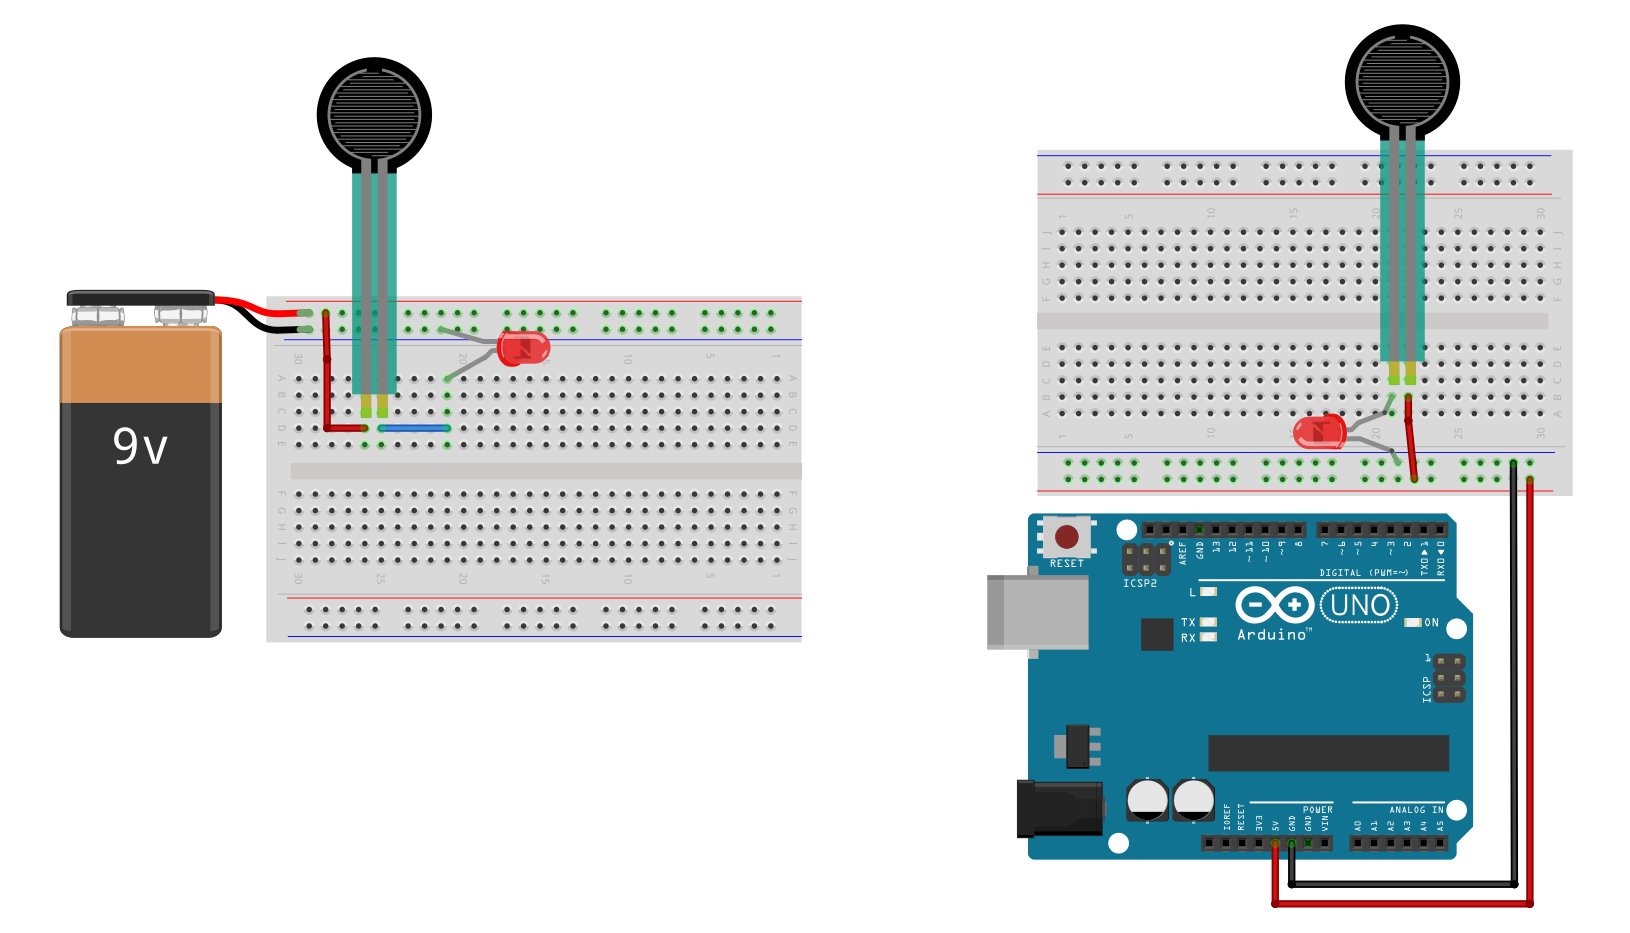
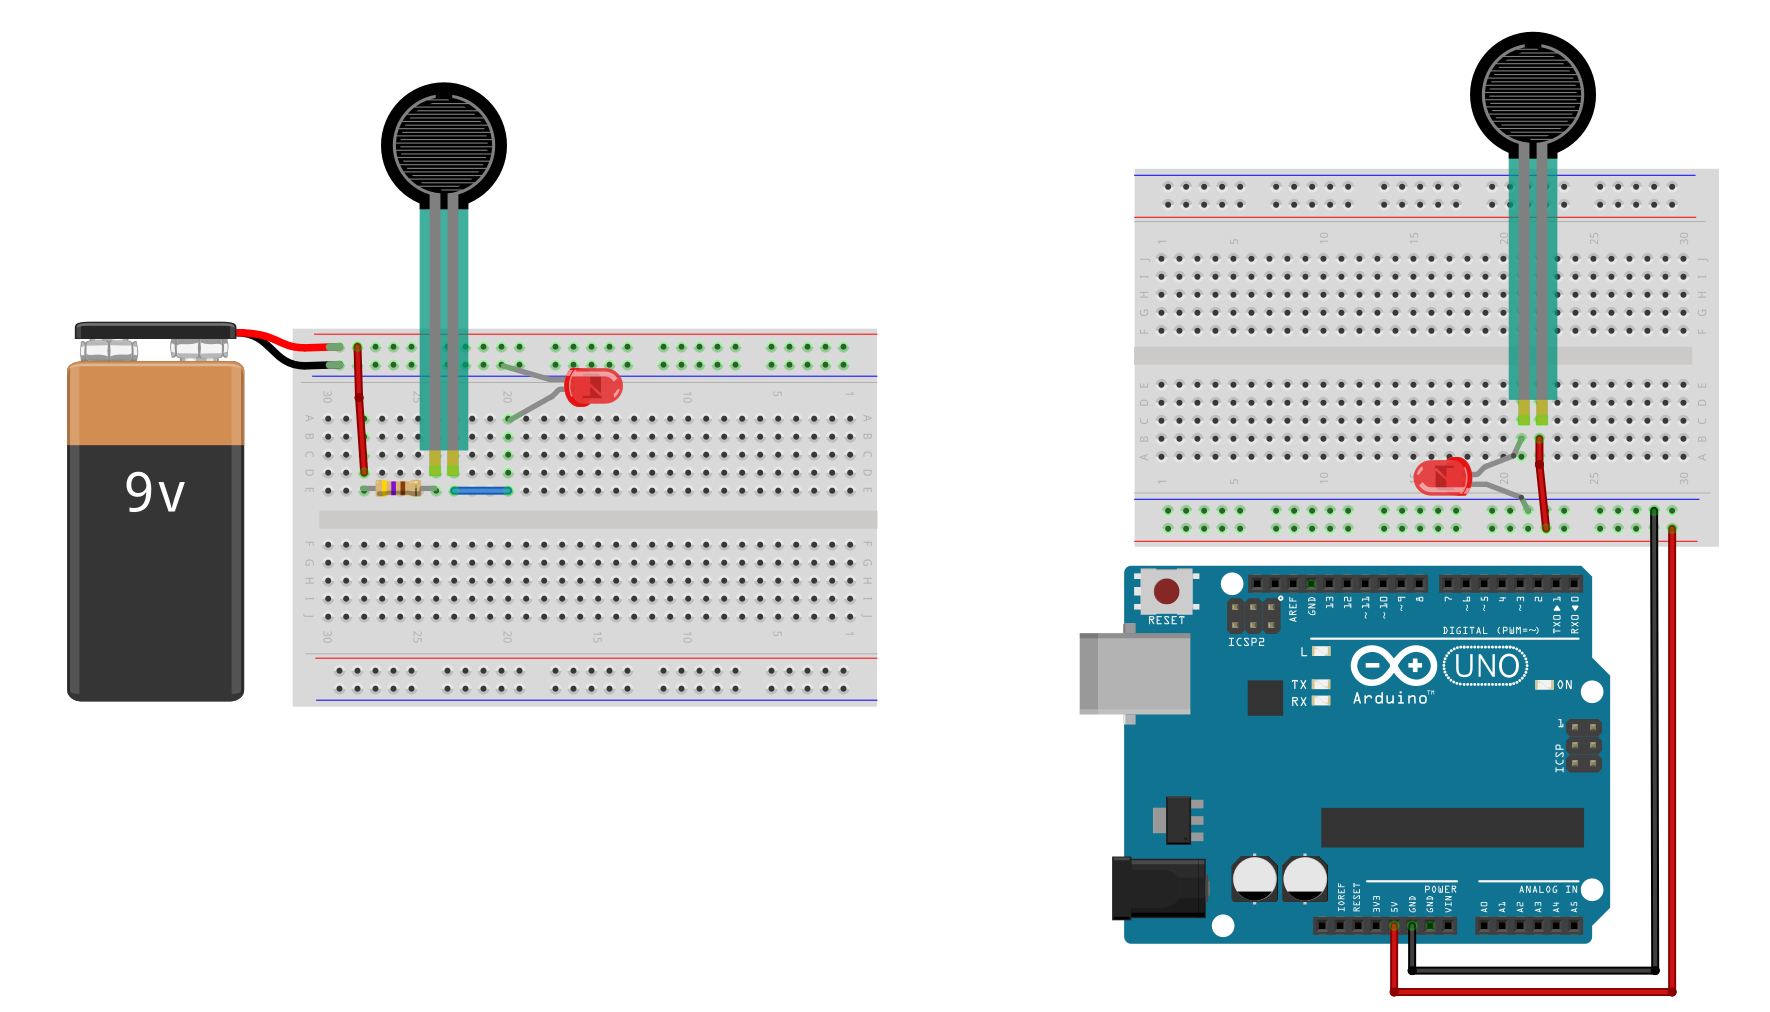
slight fixes

Changed region(s): [[0.5828, 0.0311, 0.9816, 0.9946], [0.0307, 0.0622, 0.5215, 0.7149]]

diff --git a/arduino/force-sensitive-resistors.md b/arduino/force-sensitive-resistors.md
@@ -38,7 +38,7 @@ Force-sensing (or force-sensitive) resistors (FSRs) are two-legged variable resi
 Prices and products from [Sparkfun.com](https://learn.sparkfun.com/tutorials/force-sensitive-resistor-hookup-guide/all)
 {: .fs-1 }
 
-While FSRs respond to force, they are not precision measurement instruments like [load cells](https://learn.sparkfun.com/tutorials/getting-started-with-load-cells) or [strain gauges](https://learn.sparkfun.com/tutorials/getting-started-with-load-cells/strain-gauge-basics), so use those if you want to measure weight, load, or strain.
+While FSRs respond to force, they are not precision measurement instruments like [load cells](https://learn.sparkfun.com/tutorials/getting-started-with-load-cells) or [strain gauges](https://learn.sparkfun.com/tutorials/getting-started-with-load-cells/strain-gauge-basics), so use those if you want to precisely measure weight, load, or strain.
 
 <!-- TODO: How do FSRs work actually work? Include figure from datasheet -->
 
@@ -47,7 +47,7 @@ While FSRs respond to force, they are not precision measurement instruments like
 What can we do with FSRs?
 
 The [FSR 402 datasheet]({{ site.baseurl }}/assets/datasheets/ForceSensitiveResistor_InterlinkFSR402_2010-10-26-DataSheet-FSR402-Layout2.pdf) describes a number of example applications, including:
-- **Detecting human interaction.** Sense whether a touch is accidnetal or intended by a reading force (or other signal processing)
+- **Detecting human interaction.** Sense whether a touch is accidental or intentional by a reading force (or other signal processing)
 - **Using force for UI feedback.** Detect user's touch force to make a more intuitive interface
 - **Enhancing tool safety.** Differentiate a grip from a touch as a safety lock
 - **Finding centroid of force.** Use multiple sensors to determine centroid of force
@@ -85,7 +85,7 @@ Below, we show two possible wiring diagrams: the first (preferred) shows the FSR
 Two wiring options of an FSR using a breadboard. Like typical resistors, FSRs can be inserted into your circuits in either direction.
 {: .fs-1 }
 
-You'll note that unlike with the rheostat circuit, here we're **not** using a backup resistor. This is because both the [FSR 402 datasheet]({{ site.baseurl }}/assets/datasheets/ForceSensitiveResistor_InterlinkFSR402_2010-10-26-DataSheet-FSR402-Layout2.pdf) and our own empirical use demonstrate that even with 1,000g of force, the FSR still has roughly 500Ω-1kΩ of resistance. So, it never drops to dangerously low resistance levels like the potentiometer. You can, of course, use one if you want.
+With the 9V wiring, we include a backup resistor; however, with the 5V wiring (with Arduino), we do not. This is because both the [FSR 402 datasheet]({{ site.baseurl }}/assets/datasheets/ForceSensitiveResistor_InterlinkFSR402_2010-10-26-DataSheet-FSR402-Layout2.pdf) and our own empirical use demonstrate that even with 1,000g of force, the FSR still has roughly 200Ω-500Ω of resistance. So, while the potentiometer drops to 0Ω at the lowest setting, the FSR does not. For the 9V wiring, if we assume the red LED's $$V_f=2V$$ and the lowest FSR resistance of 200Ω, then $$I=\frac{9V-2V}{200Ω}=35mA$$, which exceeds the max current of the LED. We thus added a 470Ω backup resistor to be safe. So, $$I=\frac{9V-2V}{200Ω + 470Ω}=10.4mA$$.
 
 ### Positioning FSR on breadboard
 
@@ -113,7 +113,7 @@ Workbench video of the FSR LED dimmer circuit
 
 ## Using FSRs with microcontrollers
 
-First, we'll show you the wrong way to hook up an FSR to a microcontroller:
+First, like usual, we'll show you the wrong way to hook up an FSR to a microcontroller:
 
 ![Incorrect Arduino wiring diagram and schematic for FSR](assets/images/ArduinoUno_FSR_Incorrect_SchematicAndDiagram.png)
 

diff --git a/arduino/potentiometers.md b/arduino/potentiometers.md
@@ -330,7 +330,7 @@ Why don't these work?
 Because, remember, our input pins measure **voltage** and there is no voltage difference across our potentiometer (because no current is flowing!). Here's an illustrative video of what's happening (and not happening) in our circuit:
 
 <iframe width="736" height="414" src="https://www.youtube.com/embed/gp379BG-aeE" frameborder="0" allow="accelerometer; autoplay; encrypted-media; gyroscope; picture-in-picture" allowfullscreen></iframe>
-This is a circuit simulation of Leg 1 of the potentiometer hooked to 5V and Leg 2 (wiper leg) hooked to A0. Simulation made in [CircuitJS](https://www.falstad.com/circuit/circuitjs.html).
+This is a circuit simulation of Leg 1 of the potentiometer hooked to 5V and Leg 2 (wiper leg) hooked to A0. The "inside the microcontroller" view is for illustrative purposes. The input pin circuitry does not actually look like this. Simulation made in [CircuitJS](https://www.falstad.com/circuit/circuitjs.html).
 {: .fs-1 }
 
 Notice how the analog input voltage $$V_{A0}$$ to the microcontroller is always 5V? And, indeed, if you play with the Tinkercad circuits above, you'll note that the Serial console simply prints `1023` continuously (which translates to 5V).
@@ -348,7 +348,7 @@ Now $$V_{A0}=V_{CC} \cdot \frac{R_2}{R_1 + R_2}$$.
 And here's an illustrative video of what's happening in our circuit:
 
 <iframe width="736" height="414"  src="https://www.youtube.com/embed/rJr4TgoFZ2Q" frameborder="0" allow="accelerometer; autoplay; encrypted-media; gyroscope; picture-in-picture" allowfullscreen></iframe>
-This is a circuit simulation of the potentiometer correctly hooked up to a microcontroller with Leg 1 hooked to 5V, Leg 2 (wiper leg) hooked to analog input A0, and Leg 3 to GND. Simulation made in [CircuitJS](https://www.falstad.com/circuit/circuitjs.html).
+This is a circuit simulation of the potentiometer correctly hooked up to a microcontroller with Leg 1 hooked to 5V, Leg 2 (wiper leg) hooked to analog input A0, and Leg 3 to GND. The "inside the microcontroller" view is for illustrative purposes. The input pin circuitry does not actually look like this. Simulation made in [CircuitJS](https://www.falstad.com/circuit/circuitjs.html).
 {: .fs-1 }
 
 ### Build it for real
